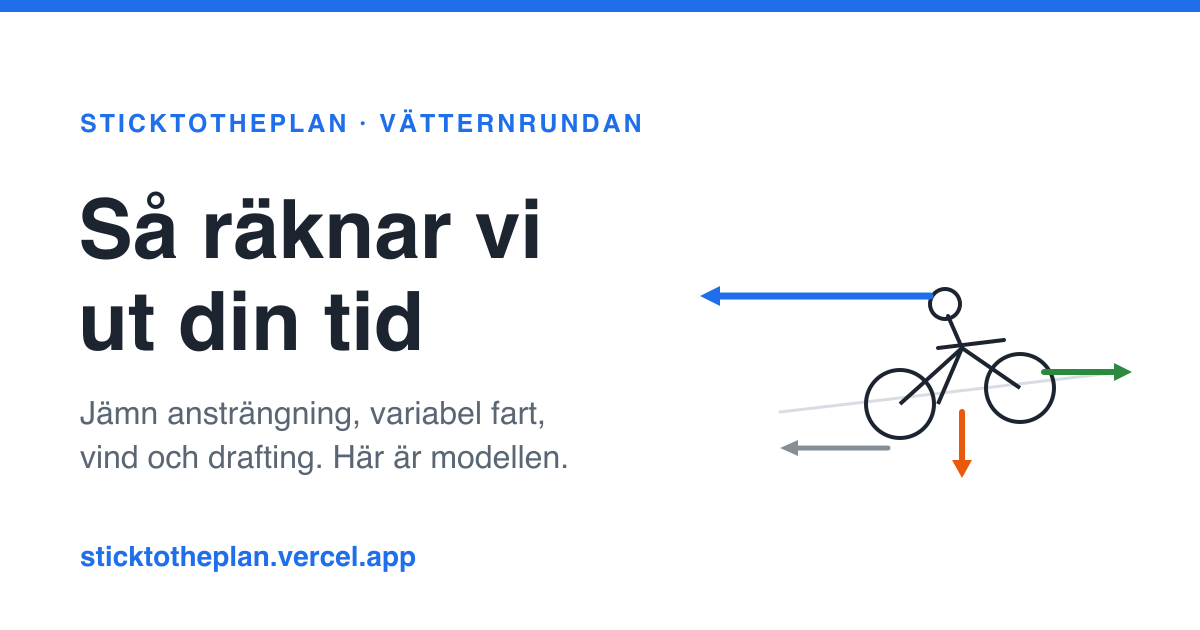
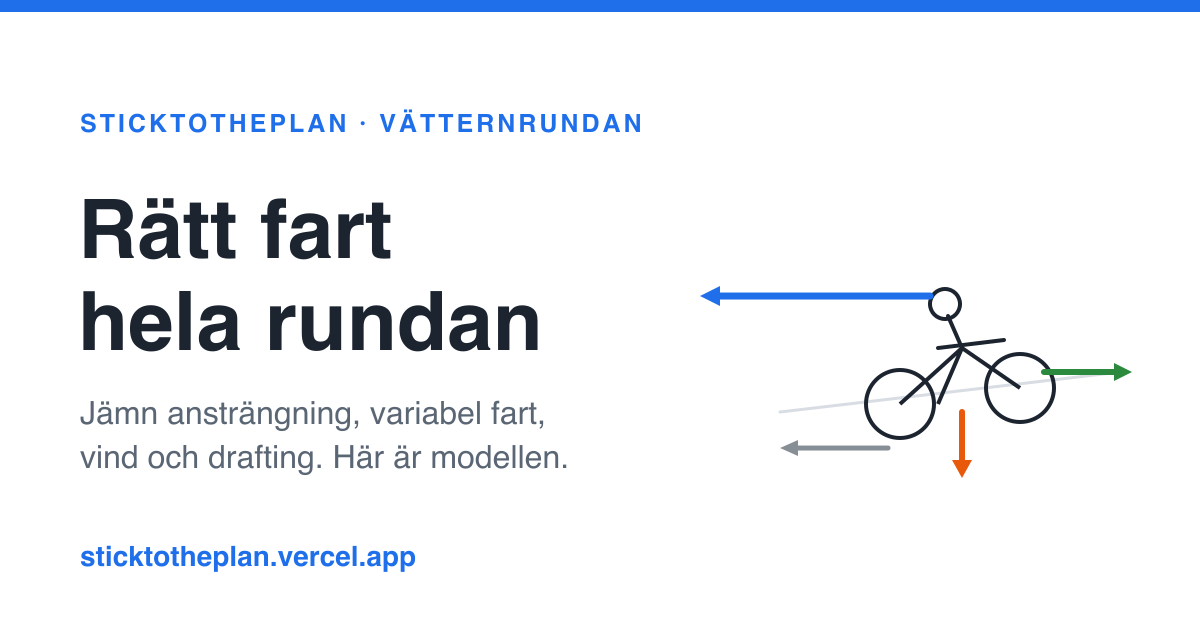
feat(web): OG-rubrik "Rätt fart hela rundan" + terminologiputs (#24)
* feat(web): byt OG-rubrik till "Rätt fart hela rundan"

* style(web): enhetlig terminologi (kapar) och puts i Så funkar det

---------

Changed region(s): [[0.0617, 0.4524, 0.4625, 0.573], [0.0617, 0.3016, 0.4625, 0.4222]]

diff --git a/apps/web/src/components/HowItWorks.tsx b/apps/web/src/components/HowItWorks.tsx
@@ -101,7 +101,7 @@ function ForcesFigure() {
       <title id="fig2-t">Cyklist med tre motståndskrafter</title>
       <desc id="fig2-d">
         En cyklist på en svag uppförsbacke med tre bakåtriktade pilar: ett stort luftmotstånd, ett
-        mindre rullmotstånd och tyngden nedåt, samt en framåtriktad pil för tramplkraften.
+        mindre rullmotstånd och tyngden nedåt, samt en framåtriktad pil för trampkraften.
       </desc>
       <defs>
         <marker
@@ -393,7 +393,7 @@ function PacelineFigure() {
         På täten: full vind
       </text>
       <text x="120" y="128" fontSize="13" fill={C.muted}>
-        I lä: ungefär 35 % lägre luftmotstånd
+        I lä: ungefär en tredjedel lägre luftmotstånd
       </text>
     </svg>
   );
@@ -710,7 +710,7 @@ function RoadPrepFigure() {
   const smooth = '40,116 140,112 240,118 340,100 440,108 560,96 640,104';
   return (
     <svg width="100%" viewBox="0 0 680 176" role="img" aria-labelledby="road-t road-d">
-      <title id="road-t">Rå höjdkurva jämnas ut och brant lutning klampas</title>
+      <title id="road-t">Rå höjdkurva jämnas ut och brant lutning kapas</title>
       <desc id="road-d">
         En taggig rå höjdkurva med en utjämnad linje ovanpå, en avhuggen spik som visar
         lutningstaket, och en markerad neutral första kilometer.
@@ -983,20 +983,19 @@ export function HowItWorks({ onBack }: { onBack: () => void }) {
         <p>
           Din GPX är en lista med punkter. Vi rensar dubblerade punkter, jämnar ut höjden med ett
           glidande medel så att barometerbrus inte blir falska backar, och delar rutten i hundratals
-          små bitar. För varje bit räknar vi lutningen ur höjdskillnaden, och klampar orimligt
-          branta värden så att en GPS-spik inte blåser upp effektkravet. Första kilometern är
-          neutral: en lugn rullstart på 20 km/h utanför ansträngningsmodellen, precis som
-          masstarten.
+          små bitar. För varje bit räknar vi lutningen ur höjdskillnaden, och kapar orimligt branta
+          värden så att en GPS-spik inte blåser upp effektkravet. Första kilometern är neutral: en
+          lugn rullstart på 20 km/h utanför ansträngningsmodellen, precis som masstarten.
         </p>
         <Formula caption="Utan utjämning skulle varje liten höjdvariation läsas som en backe och störa effektberäkningen.">
-          lutning = höjdskillnad ÷ sträcka, klampad till ±18 %
+          lutning = höjdskillnad ÷ sträcka, kapad till ±18 %
         </Formula>
         <DeepDive>
           <p>Höjden filtreras med ett glidande medel innan lutningen beräknas per mikrosegment:</p>
           <div className="howto-formula howto-formula-block">
             {'höjd_utjämnad = glidande medel över 5 punkter\n'}
             {'lutning = (höjd_slut − höjd_start) ÷ längd\n'}
-            {'lutning klampas till [−0,18, 0,18]  (±18 %)\n'}
+            {'lutning kapas till [−0,18, 0,18]  (±18 %)\n'}
             {'neutral: cum_distans < 1 km → 20 km/h, utanför NP-modellen'}
           </div>
           <p>
@@ -1032,8 +1031,8 @@ export function HowItWorks({ onBack }: { onBack: () => void }) {
           </div>
           <p>
             Sidvind höjer dessutom effektiv CdA med yaw-vinkeln: CdA·(1 + 0,04·|yaw°|/10), cirka +8
-            % vid 20° yaw, klampad till ±50°. Fart ur effekt löses med bisektion på [0,5, 25] m/s
-            till 0,01 W.
+            % vid 20° yaw, kapad till ±50°. Fart ur effekt löses med bisektion på [0,5, 25] m/s till
+            0,01 W.
           </p>
           <table>
             <thead>
@@ -1102,7 +1101,7 @@ export function HowItWorks({ onBack }: { onBack: () => void }) {
           </div>
           <p>
             Prognosvind (10 m) skalas till styrhöjd (1,2 m) med neutral logaritmisk vindprofil,
-            faktorn klampas till [0,15, 1]:
+            faktorn kapas till [0,15, 1]:
           </p>
           <div className="howto-formula howto-formula-block">
             {'faktor = ln(1,2 ÷ z0) ÷ ln(10 ÷ z0)'}
@@ -1187,7 +1186,7 @@ export function HowItWorks({ onBack }: { onBack: () => void }) {
           I ett kedjegäng ligger du mest i lä, där luftmotståndet är ungefär en tredjedel lägre. Vi
           modellerar rotationen: korta, hårda drag på täten och längre återhämtning i hjul. För att
           fånga vad det gör med kroppen mäter vi din ansträngning som normaliserad effekt (NP), ett
-          mått som straffar de hårda dragen hårdare än ett vanligt snitt gör.
+          mått som straffar de hårda dragen mer än ett vanligt snitt gör.
         </p>
         <Formula caption="Upphöjt till fyra gör att korta hårda drag väger tyngre, precis som de känns i benen.">
           NP = (medel av 30-sekunders rullande effekt⁴)^¼
@@ -1388,9 +1387,9 @@ export function HowItWorks({ onBack }: { onBack: () => void }) {
         </Formula>
         <DeepDive>
           <p>
-            Bandet är ±5 % kring den tidsviktade drageffekten per rad. Datafältet kan rikta sig mot
-            antingen drageffekten eller snitteffekten. Det läser kontrollnamn och avstånd ur banan
-            och tolkar den planerade tiden ur varje banpunkts namn:
+            Bandet är ±5 % kring den tidsviktade drageffekten per rad. Garmin-datafältet läser
+            kontrollnamn och avstånd ur banan och tolkar den planerade tiden ur varje banpunkts
+            namn:
           </p>
           <div className="howto-formula howto-formula-block">
             {'"Gränna 07:04"   → absolut klocktid\n'}
